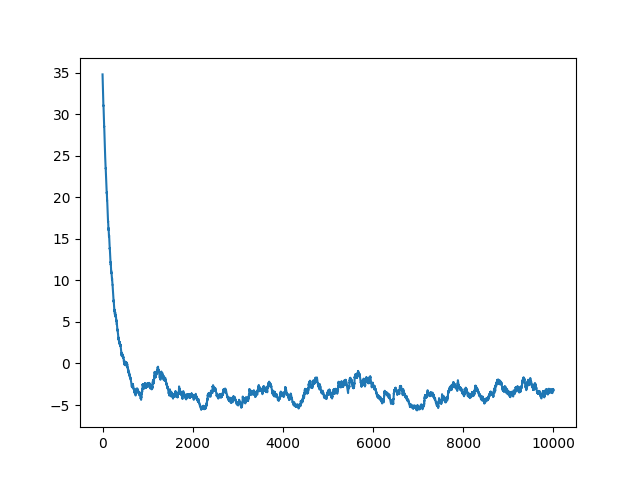
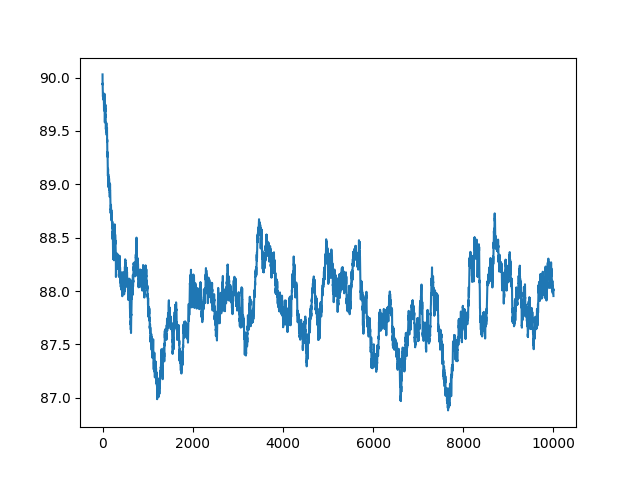
sdfjal

diff --git a/model_no_np.py b/model_no_np.py
@@ -11,11 +11,9 @@ VERBOSE = 0
 
 class Brain:
     def __init__(self, num_in, num_out, decay = 0.995):
-        mag = 0.01/num_in #xavier init.
-        self.weights = np.random.normal(0.0, mag, (num_out, num_in))
         self.num_in = num_in
         self.num_out = num_out
-        self.baseline = 35
+        self.baseline = 90
         self.decay = decay
 
     def loadweights(self, filename = 'weights'):
@@ -42,8 +40,12 @@ class Brain:
         Y = [0 for i in range(self.num_out)]
         for j in range(self.num_out):
             for i in range(self.num_in):
-                Y[j] += self.weights[j][i] + input_[i]
+                Y[j] += self.weights[j][i] * input_[i]
+
+        #print(input_)
+        #print(Y)
         Y = self.softmax(Y)
+
         
         idx = self.choose(Y)[0]
         return idx
@@ -51,32 +53,35 @@ class Brain:
     def give_reward(self, reward, lr = 0.0001):
         self.baseline = self.decay*self.baseline + (1.0-self.decay)*reward
 
+
 def test():
     data = []
-    
-    B = Brain(10,4)
-    B.loadweights()
-    for k in range(10000):
-        x = random.randint(1,4)
-        y = random.randint(1,4)
 
-        input_ = ([1 if i == x else 0 for i in range(5)] +
-                  [1 if i == y else 0 for i in range(5)])
-        
-        for i in range(50):
+    s = 20
+    B = Brain(s*2,4)
+    B.loadweights()
+    
+    for k in range(10000):
+        x = random.randint(1,s-1)
+        y = random.randint(1,s-1)
+
+        for t in range(100):
+            input_ = ([1 if i == x else 0 for i in range(s)] +
+                      [1 if i == y else 0 for i in range(s)])
+            
             a = B.sample(input_)
 
             if a == 0:
-                x = (x+1)%5
+                x = (x+1)%s
             elif a == 1:
-                x = (x+4)%5
+                x = (x+s-1)%s
             elif a == 2:
-                y = (y+1)%5
+                y = (y+1)%s
             elif a == 3:
-                y = (y+4)%5
+                y = (y+s-1)%s
             
             if x == 0 and y == 0:
-                rwd = 50-i
+                rwd = 100-t
                 break
         else:
             rwd = -10

diff --git a/model.py b/model.py
@@ -8,12 +8,12 @@ import random
 VERBOSE = 0
 
 class Brain:
-    def __init__(self, num_in, num_out, decay = 0.999):
+    def __init__(self, num_in, num_out, decay = 0.995):
         mag = 0.01/num_in #xavier init.
         self.weights = np.random.normal(0.0, mag, (num_out, num_in))
         self.num_in = num_in
         self.num_out = num_out
-        self.baseline = 30
+        self.baseline = 100
         self.decay = decay
         self.newgame()
 
@@ -71,29 +71,31 @@ class Brain:
 
 def test():
     data = []
-    
-    B = Brain(10,4)
-    for k in range(100000):
-        x = random.randint(1,4)
-        y = random.randint(1,4)
 
-        input_ = ([1 if i == x else 0 for i in range(5)] +
-                  [1 if i == y else 0 for i in range(5)])
-        
-        for i in range(50):
+    s = 20
+    B = Brain(s*2,4)
+    
+    for k in range(50000):
+        x = random.randint(1,s-1)
+        y = random.randint(1,s-1)
+
+        for t in range(100):
+            input_ = ([1 if i == x else 0 for i in range(s)] +
+                      [1 if i == y else 0 for i in range(s)])
+            
             a = B.sample(input_)
 
             if a == 0:
-                x = (x+1)%5
+                x = (x+1)%s
             elif a == 1:
-                x = (x+4)%5
+                x = (x+s-1)%s
             elif a == 2:
-                y = (y+1)%5
+                y = (y+1)%s
             elif a == 3:
-                y = (y+4)%5
+                y = (y+s-1)%s
             
             if x == 0 and y == 0:
-                rwd = 50-i
+                rwd = 100-t
                 break
         else:
             rwd = -10
